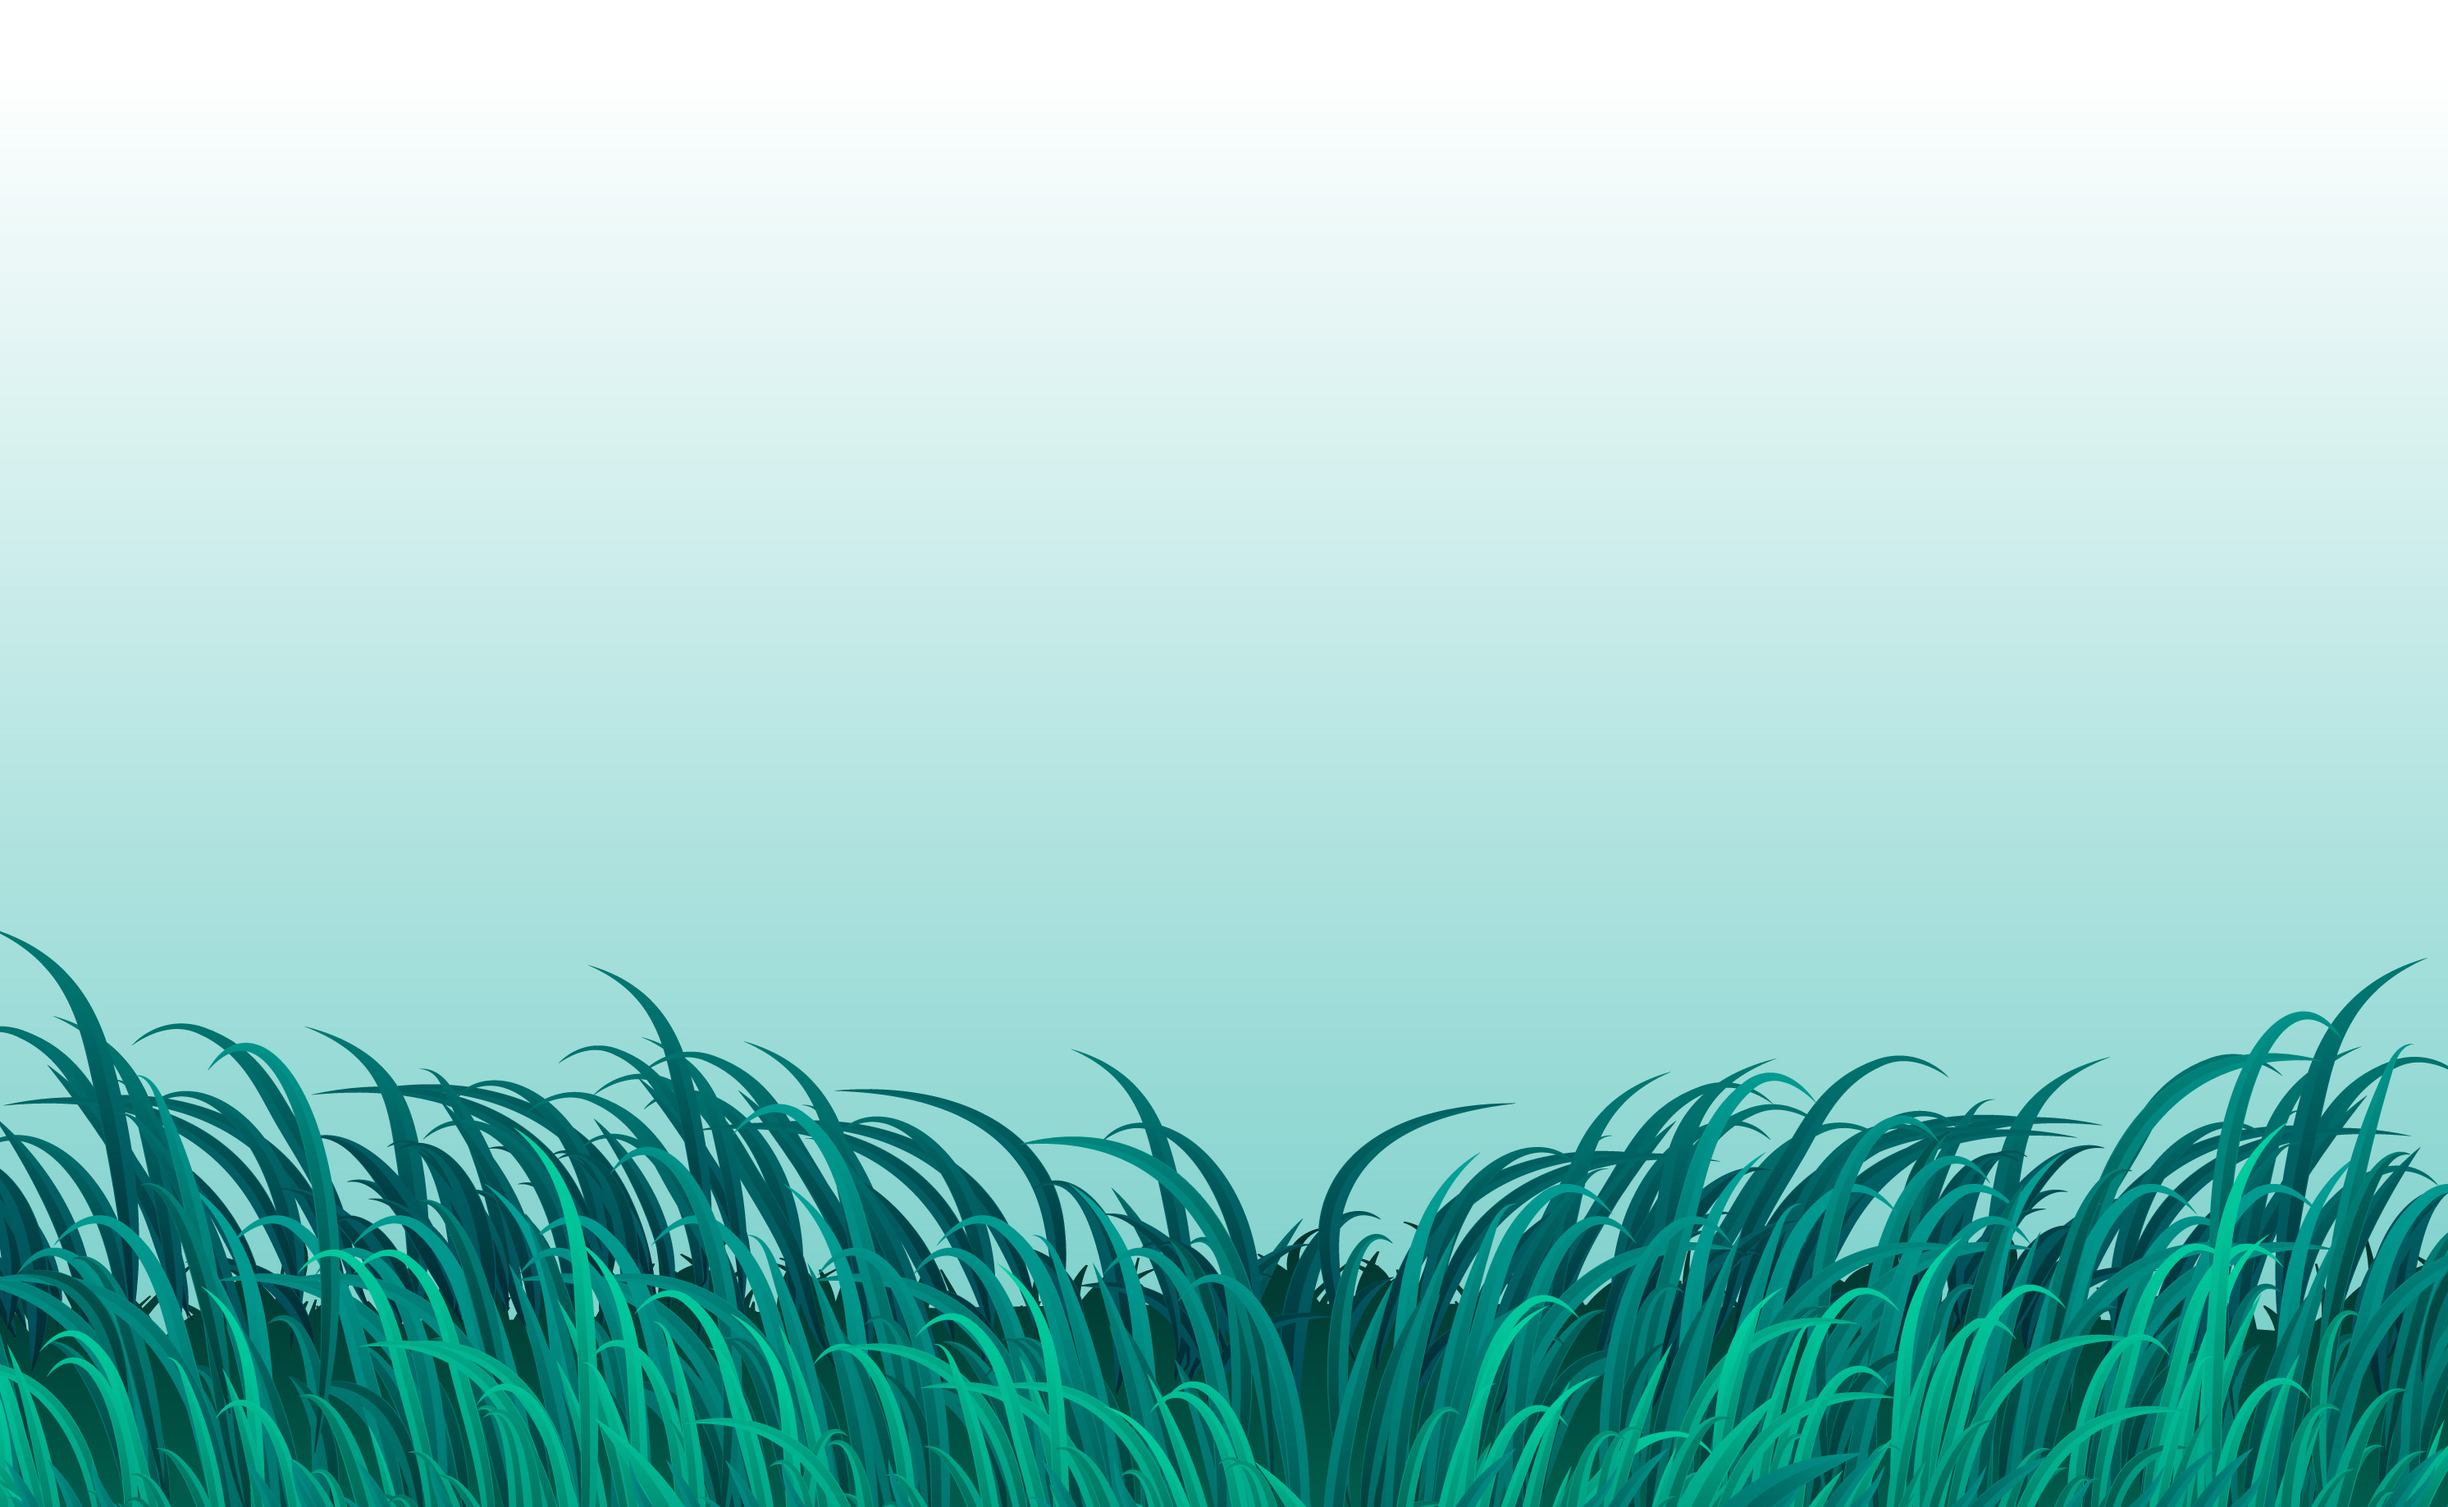
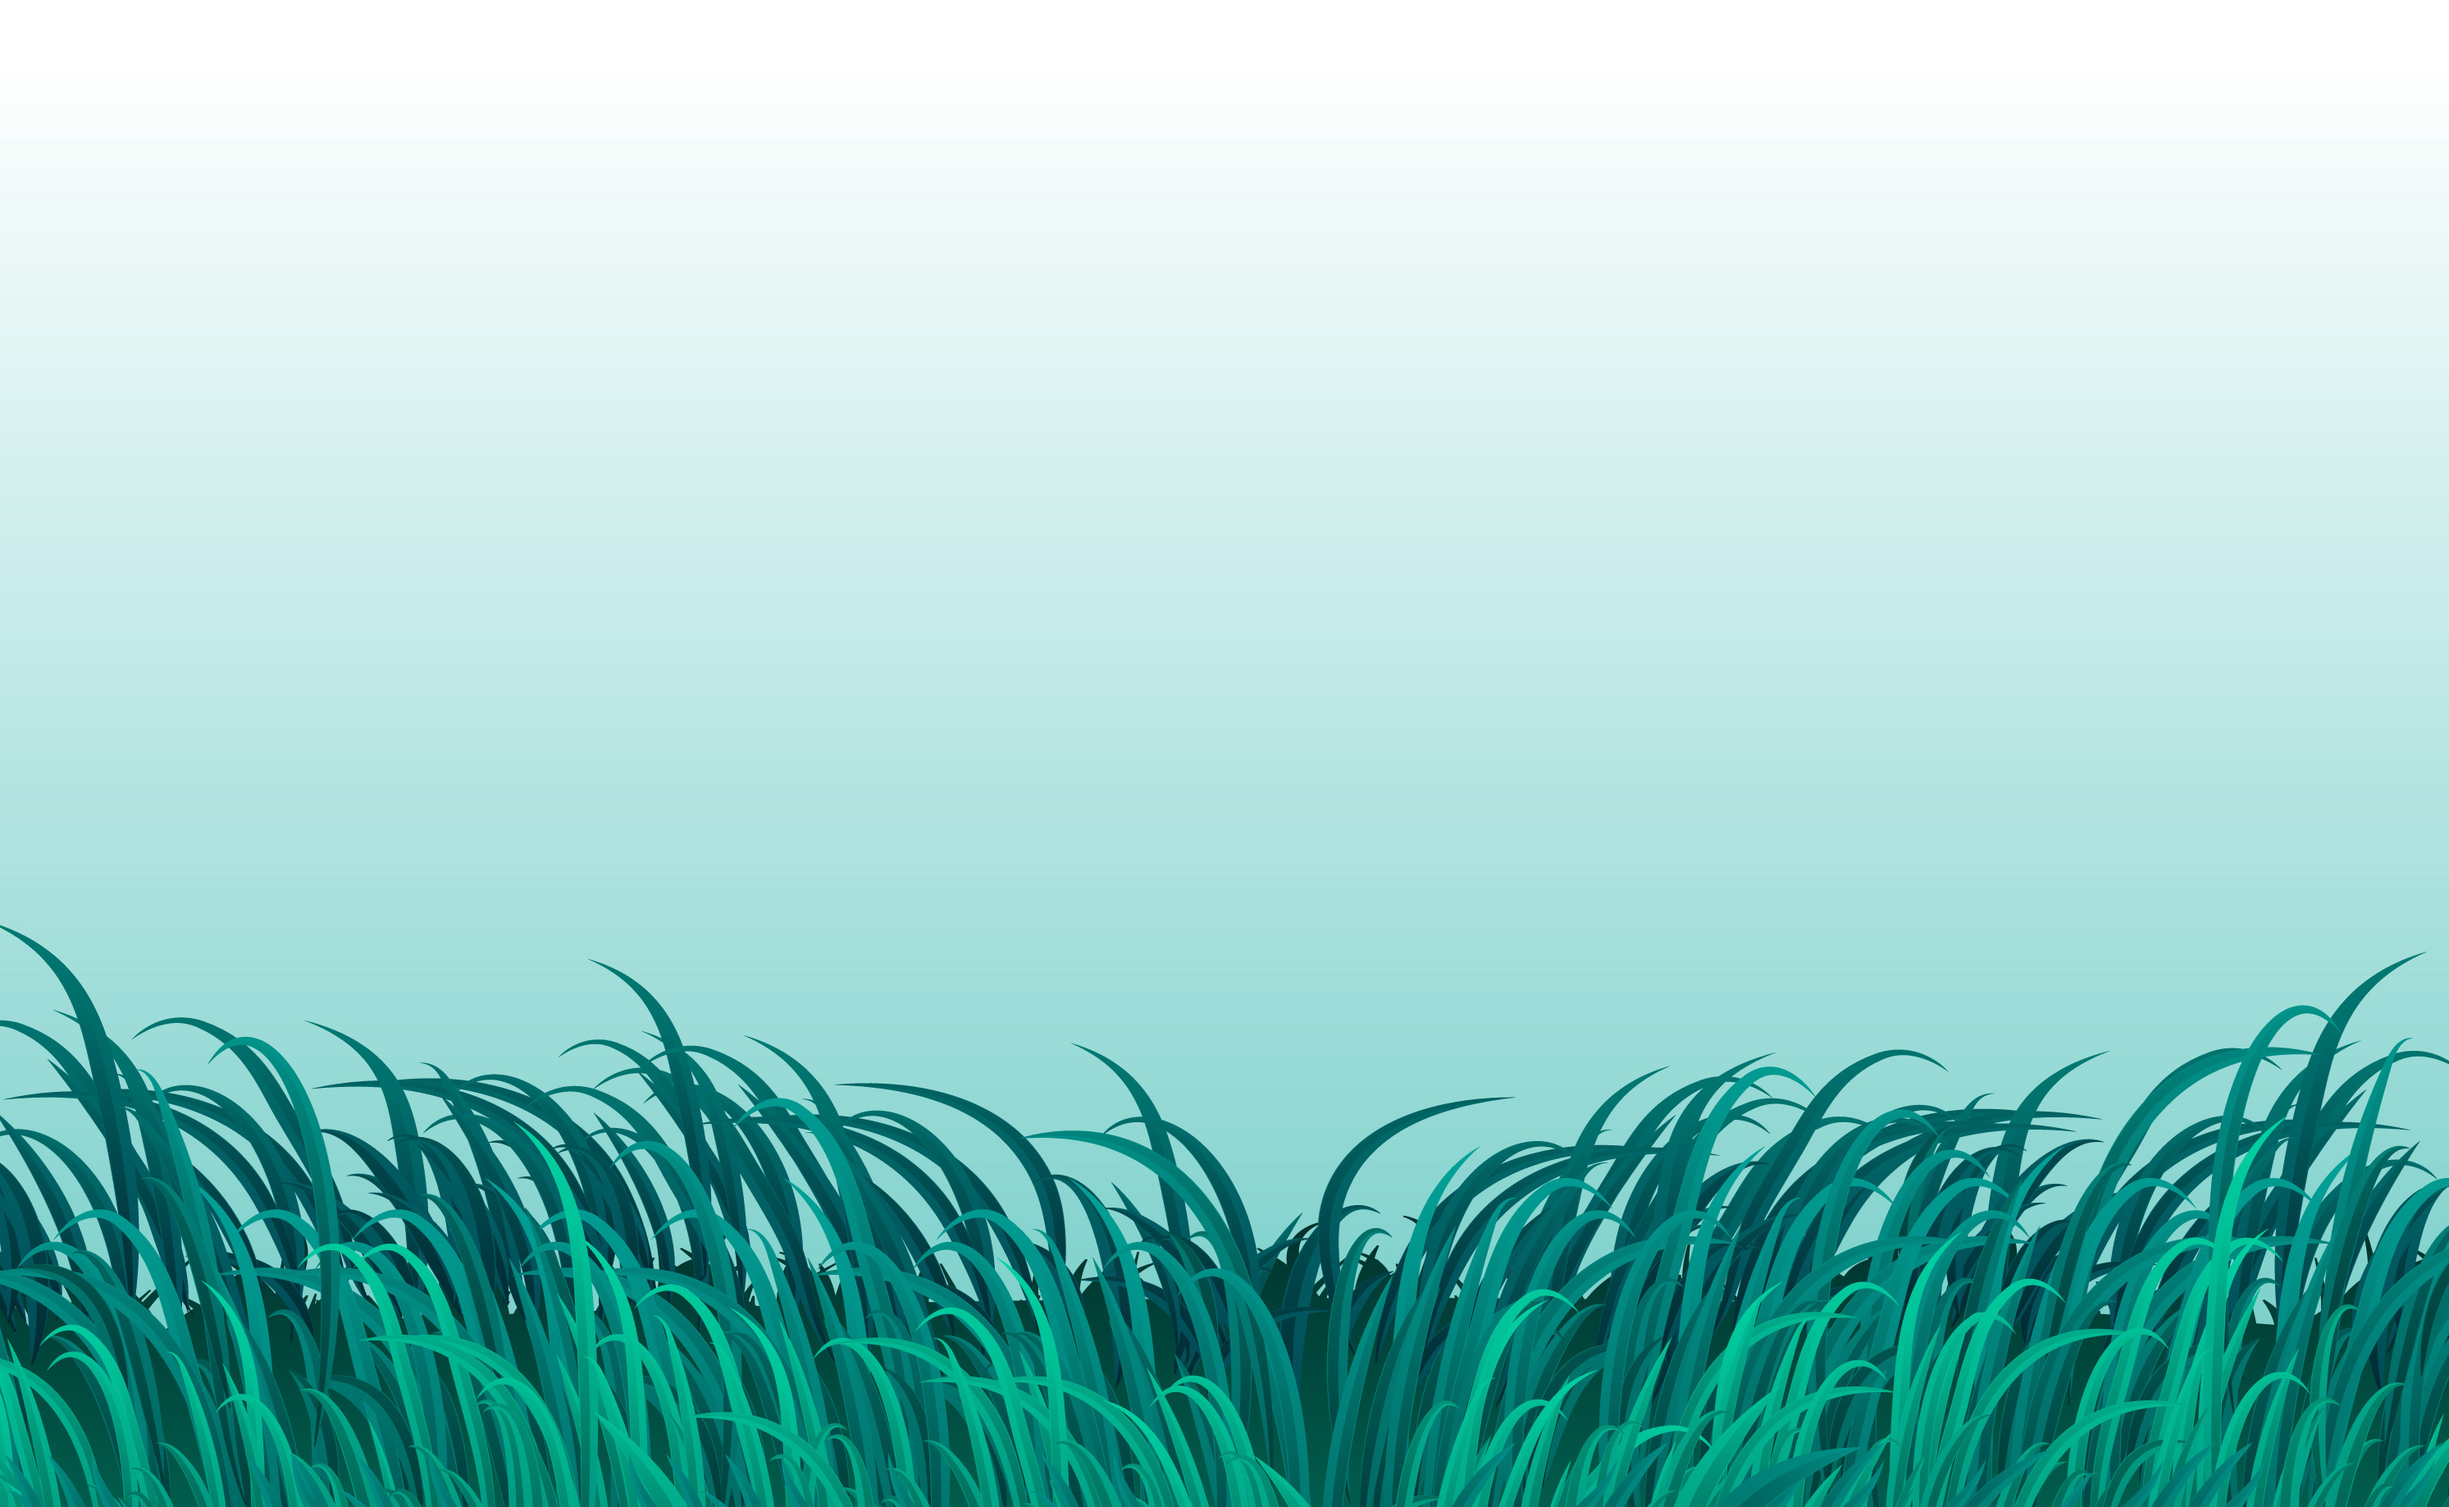
fix errors, fix css styling

Changed region(s): [[0.0, 0.6206, 1.0, 1.0], [0.9662, 0.6206, 0.9973, 0.6516], [0.8415, 0.6826, 0.8727, 0.7137]]

diff --git a/src/components/MinibeastApp.js b/src/components/MinibeastApp.js
@@ -90,7 +90,7 @@ function StartScreen() {
           <h2 id="modal-title">About the Game</h2>
           <div className="modal-description">
             <p id="modal-description">
-              Welcome to the Minibeast Adventure! <br /> <br /> This is a fun game that I made with my mom. It has lots of different activities about cute and tiny creatures called minibeasts. You can add and count in the math game. Spell the name of the bugs in the phonics game, or test yourself by answering questions in the Quiz game. There are nice sounds in the game, so make sure your volume is just right. Have a great time playing! Asaru.
+              Welcome to the Minibeast Adventure! <br /> <br /> This is a fun game that I made with my mom. It has lots of different activities about cute and tiny creatures called minibeasts. You can add and count in the math game. Spell the name of the bugs in the phonics game or test yourself by answering questions in the Quiz game. There are nice sounds in the game, so make sure your volume is just right. Have a great time playing! Asaru.
             </p>
           </div>
           <video src={asaruMessageVideo} controls></video>

diff --git a/src/components/StartScreen.css b/src/components/StartScreen.css
@@ -5,7 +5,7 @@
     align-items: center;
     height: 100vh;
     position: relative;
-    background-image: url("https://res.cloudinary.com/dwtfr52ea/image/upload/v1681456162/Minibeast-Mergers_Project/bg_1_ucvehq.jpg");
+    background-image: url("../images/bg_1.jpg");
     background-size: cover;
     background-position: center;
     background-repeat: no-repeat;
@@ -33,8 +33,6 @@
   .StartScreen button:hover {
     background-color: #2D424E;
   }
-  
-
 
   /*App CSS */
   @import url('https://fonts.googleapis.com/css2?family=Poppins:wght@400;600&family=Quicksand:wght@400;600&display=swap');
@@ -43,14 +41,6 @@ body {
   font-family: 'Quicksand', sans-serif; 
 }
  
-.StartScreen {
-  position: relative;
-  background-image: url("https://res.cloudinary.com/dwtfr52ea/image/upload/v1681456162/Minibeast-Mergers_Project/bg_1_ucvehq.jpg");
-  background-size: cover;
-  background-position: center;
-  background-repeat: no-repeat;
-  min-height: 100vh;
-}
 
 .modal-content {
   max-height: 90vh;

diff --git a/src/components/QuizGame/QuizGame.css b/src/components/QuizGame/QuizGame.css
@@ -9,12 +9,12 @@ body {
   flex-direction: column;
   justify-content: center;
   align-items: center;
-  background-image: url("https://res.cloudinary.com/dwtfr52ea/image/upload/v1681456160/Minibeast-Mergers_Project/bg_8_zmpvaz.jpg");
-  background-size: cover; /* Updated to cover */
+  background-image: url("../../images/bg_8.jpg");
+  background-size: cover; 
   background-position: center;
   background-repeat: no-repeat;
   min-height: 100vh;
-  background-position: left 0 top 4vh; 
+  background-position: left 0 top 1vh; 
   background-color: #fff;
   position: relative;
 

diff --git a/src/components/PhonicsGame/PhonicsGame.css b/src/components/PhonicsGame/PhonicsGame.css
@@ -35,12 +35,12 @@ body {
 
 
 .PhonicsGame {
-  background-image: url("https://res.cloudinary.com/dwtfr52ea/image/upload/v1681456160/Minibeast-Mergers_Project/bg_8_zmpvaz.jpg");
-  background-size: cover;
-  background-position: center;
-  background-repeat: no-repeat; 
-  min-height: 100vh;
+  background-image: url("../../images/bg_8.jpg");
+  background-size:cover;
+  background-position: left 0 top -40px; 
+  background-repeat: no-repeat;
   background-color: #fff;
+  min-height: 100vh;
 }
 
 .PhonicsGame h1 {

diff --git a/src/components/PhonicsGame/PhonicsGame.js b/src/components/PhonicsGame/PhonicsGame.js
@@ -253,14 +253,6 @@ function PhonicsGame() {
         </div>
       </div>
       <div className="start-button-container">
-        <button
-          className="start-button"
-          onClick={nextQuestion}
-          onMouseEnter={() => playAudio(process.env.PUBLIC_URL + '/sounds/new_question.mp3')}
-          onMouseLeave={stopAudio}
-        >
-          New question
-        </button>
       </div>
     </>
   );

diff --git a/src/components/MathGame/MathGame.css b/src/components/MathGame/MathGame.css
@@ -1,7 +1,7 @@
 .MathGame {
-    background-image: url("https://res.cloudinary.com/dwtfr52ea/image/upload/v1681456160/Minibeast-Mergers_Project/bg_8_zmpvaz.jpg");
+    background-image: url("../../images/bg_8.jpg");
     background-size: cover;
-    background-position: left 0 top -50px;
+    background-position: left 0 top -20px;
     background-repeat: no-repeat;
     min-height: 100vh;
     background-color: #fff;
